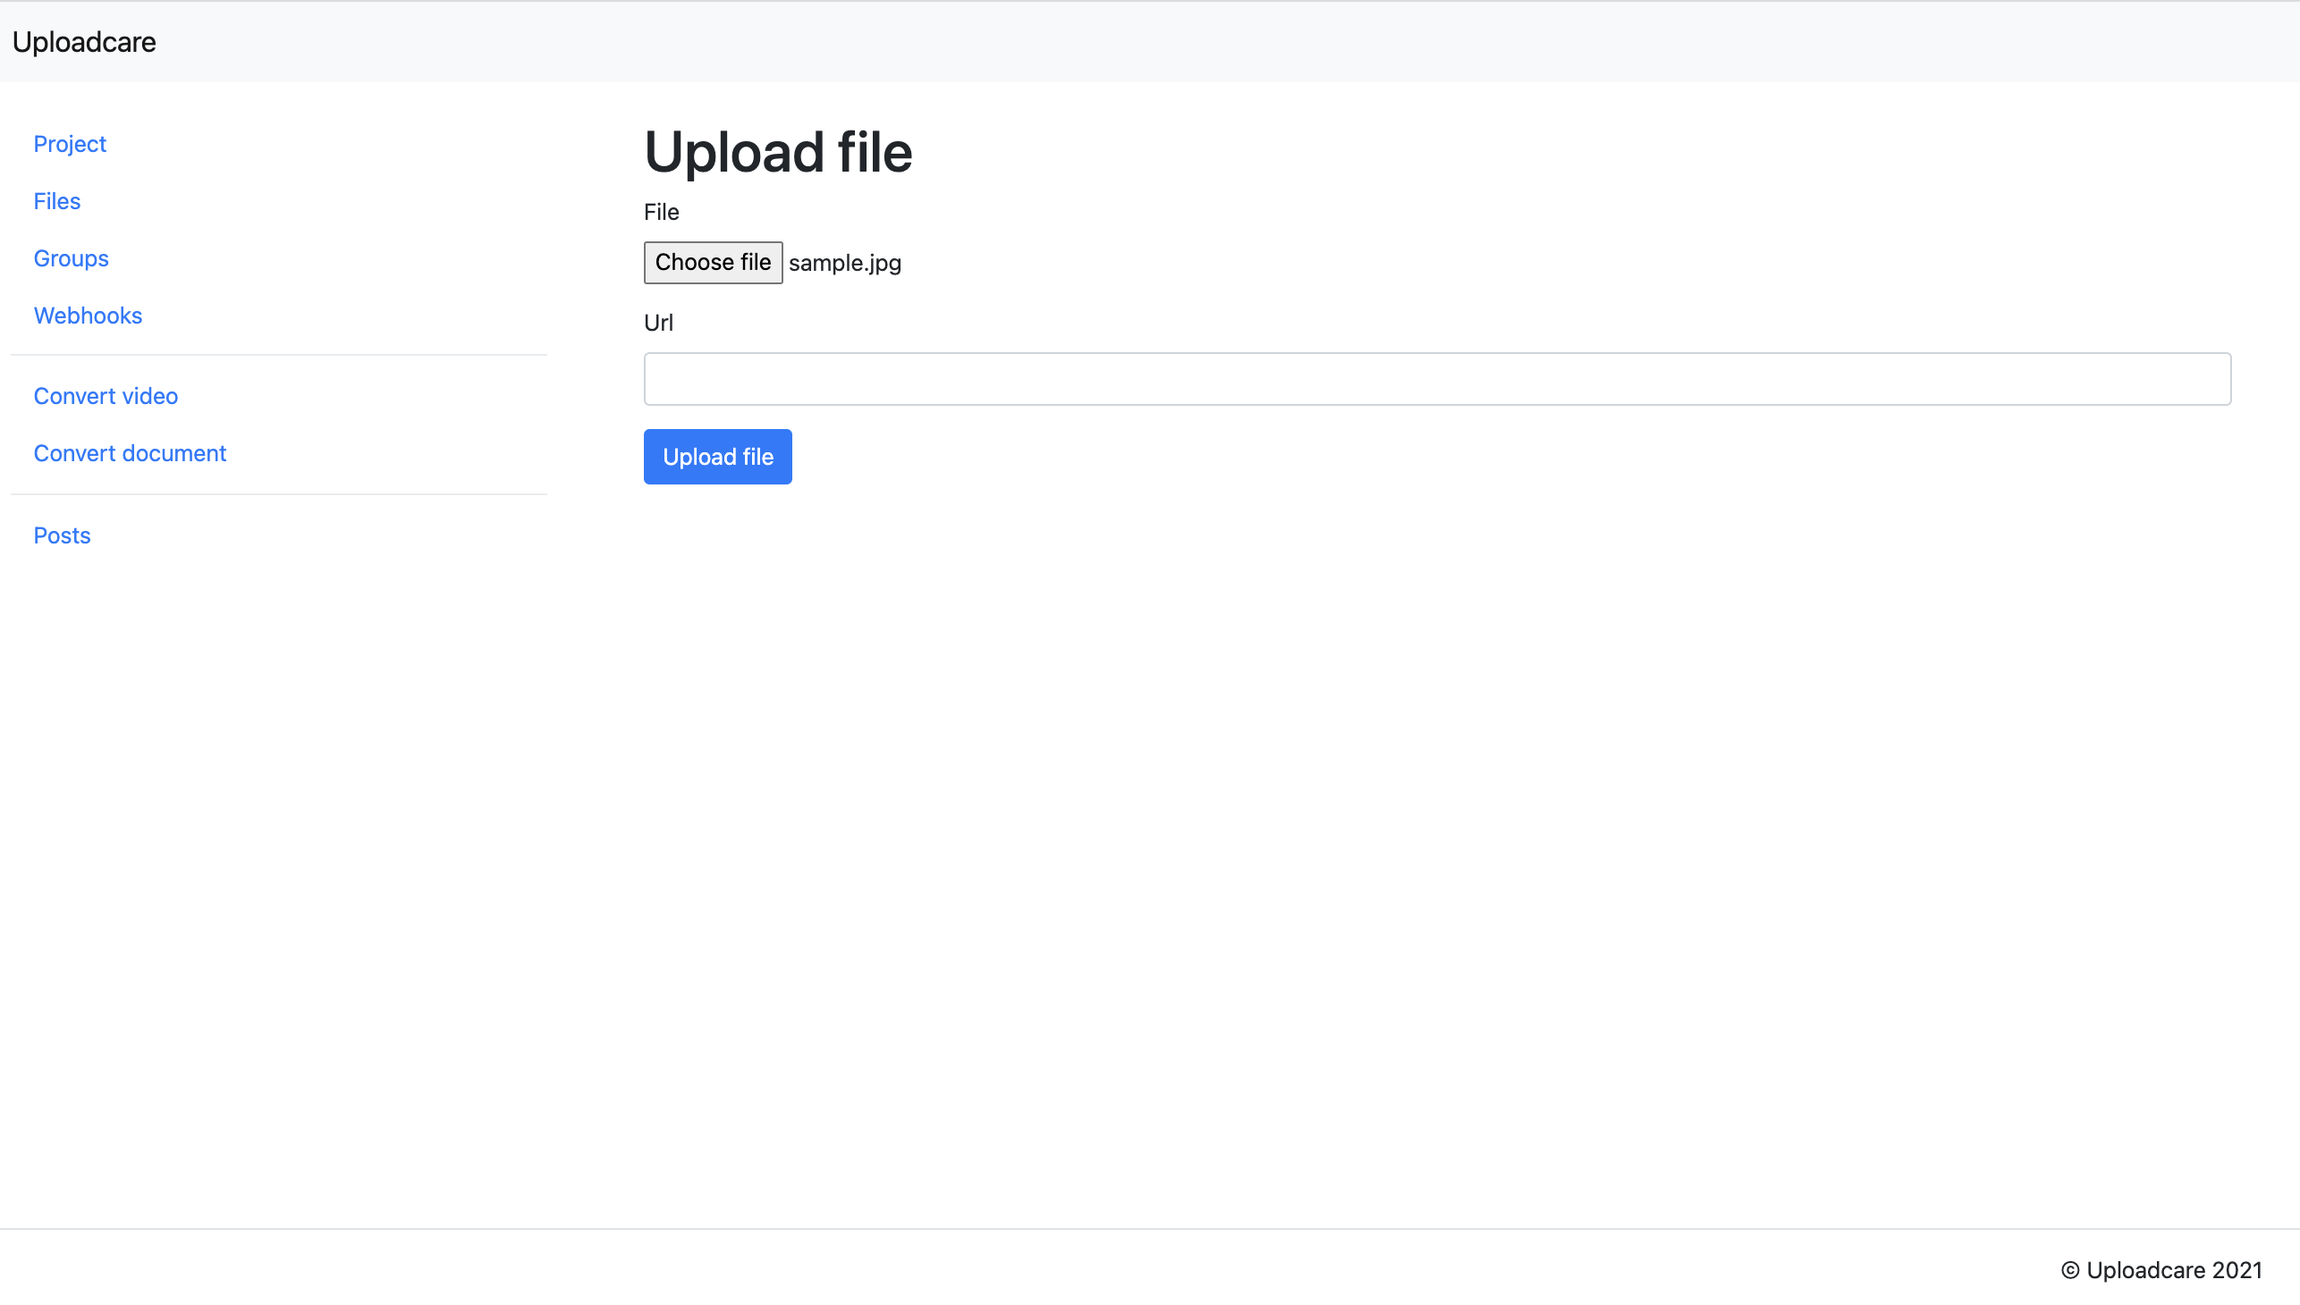
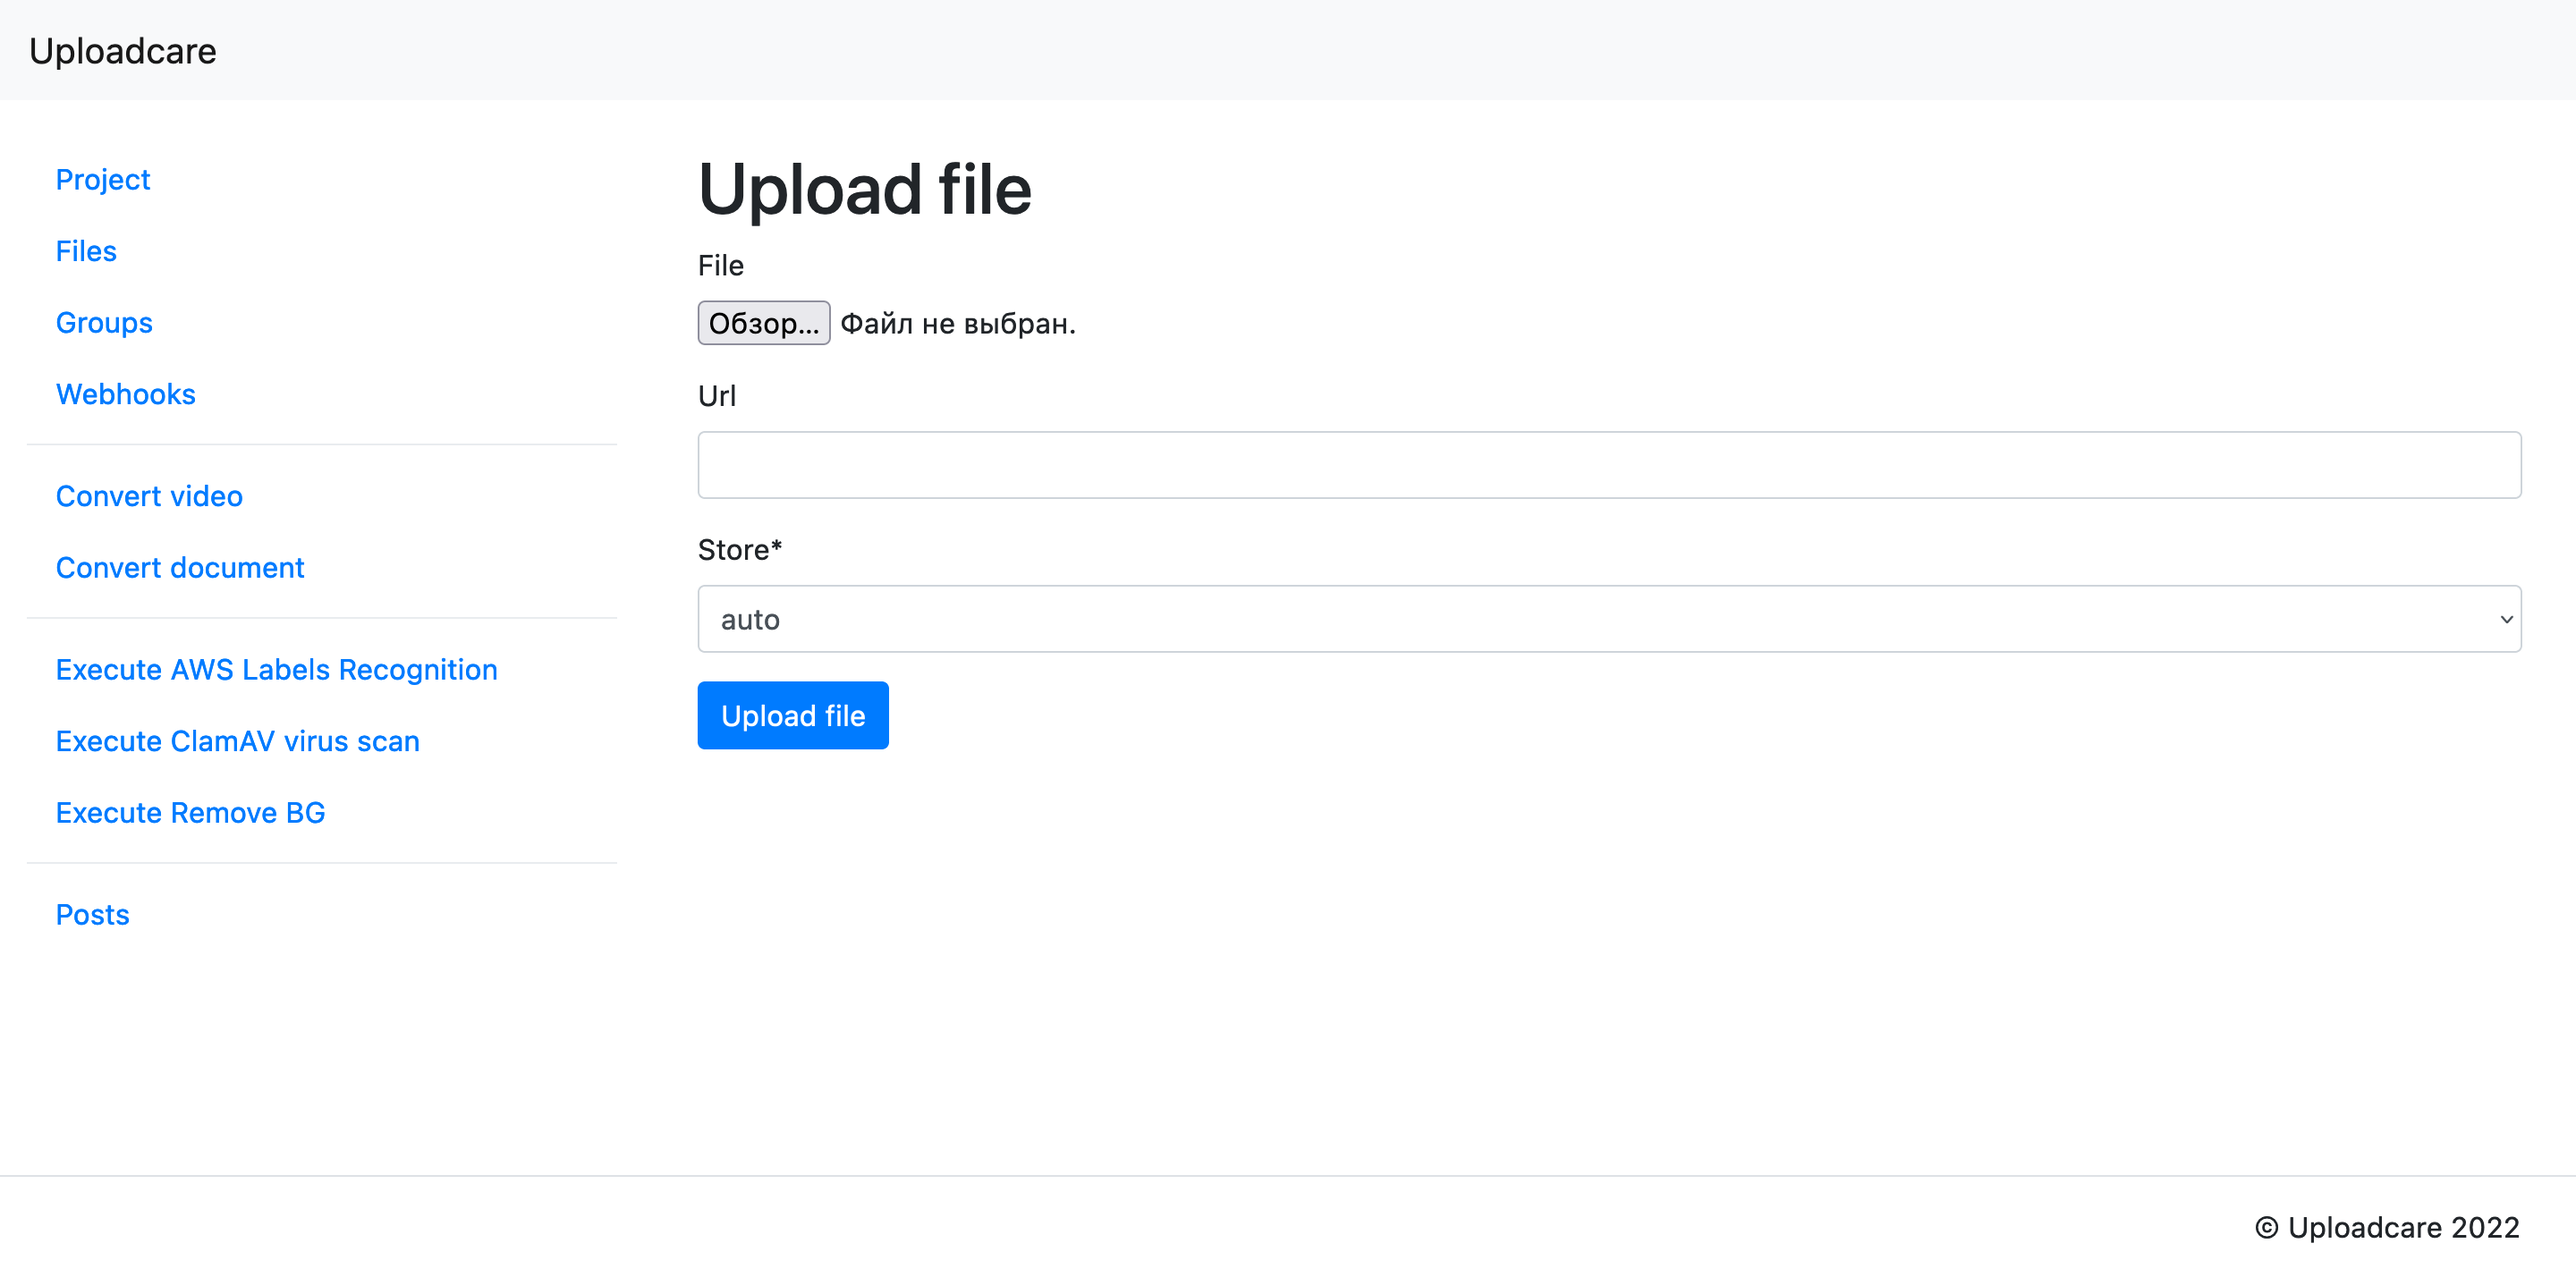
update readme with pics

diff --git a/README.md b/README.md
@@ -1,7 +1,7 @@
 # Pyuploadcare Example app
 
 This example project demonstrates the pyuploadcare capabilities.
-The project is based on Python 3.9 and Django 3.2.8.
+The project is based on Python 3.8 and Django 3.2.8.
 
 * [Installation](#installation)
   * [Using docker](#using-docker)
@@ -64,7 +64,7 @@ Make sure Python and Poetry are installed on your system. Fire command prompt an
 
 ```console
 $ python -V
-Python 3.9.6
+Python 3.8.9
 $ poetry --version
 Poetry version 1.1.9
 ```
@@ -118,9 +118,10 @@ The page shows all the files you have on Uploadcare servers. Each file has actio
 
 ![Files index](./img/files_list.png)
 
-To go to the `show` page, simply click on a filename:
+To go to the `show` page, simply click on a filename.
+There are blocks with readonly `appdata` and editable `metadata`:
 
-![Show file page](./img/file_info.png)
+![Show file page](./img/file_info_with_metadata.png)
 
 The `index` page also supports batch operations pages — batch store, batch delete, create file group from selected files.
 Just select multiple files and apply batch action.
@@ -132,6 +133,7 @@ Just select multiple files and apply batch action.
 File Groups section provides user interface to manage file groups on Uploadcare.
 
 The `index` page shows a minimal info about each group including ID and files count.
+There is also a button for deleting the `group`
 
 ![Index groups](./img/groups_list.png)
 
@@ -176,6 +178,57 @@ Video conversion works the same way but the form has some additional parameters 
 Conversion result page also includes information about how conversion is going.
 
 ![Convert video result](./img/video_conversion_status.png)
+
+
+### Addons
+
+One can execute operations that wrapped as addons.
+There are three implemented addons:
+- background removing 
+- virus scanning
+- labels recognition
+For additional information proceed to [Uploadcare REST API Add-ons](https://uploadcare.com/api-refs/rest-api/v0.7.0/#tag/Add-Ons).
+
+
+#### Labels recognition via AWS
+
+One only needs to choose a file to proceed
+
+![Setup recogntion](./img/setup_addon_aws_recognition.png)
+
+After all corresponding part of file's `adddata` is rendered 
+and one can get into full file information if needed
+
+![Recogntion results](./img/addon_aws_execution_result.png)
+
+
+#### ClamAV Antivirus scan
+
+Choose a file to scan and additional action for revealed infected file
+
+![avscan recogntion](./img/setup_addon_av_clamav.png)
+
+Application renders corresponding part of file's `adddata` and the link to full file info page
+
+![avscan results](./img/addon_clamav_execution_result.png)
+
+
+#### Background removing
+
+Background removing has a bunch of options to select.
+
+![Setup background](./img/setup_addon_remove_bg.png)
+
+Usually it takes time to remove the background especially for large images, so one can see `IN_PROGRESS` status page with refresh button
+
+![Recogntion results](./img/addon_remove_bg_in_progress.png)
+
+
+New image with removed backgorund is put into new file, 
+so the result page has both links to original file and created one
+
+![Background results](./img/addon_remove_bg_result_done.png)
+
 
 
 ### Webhooks
